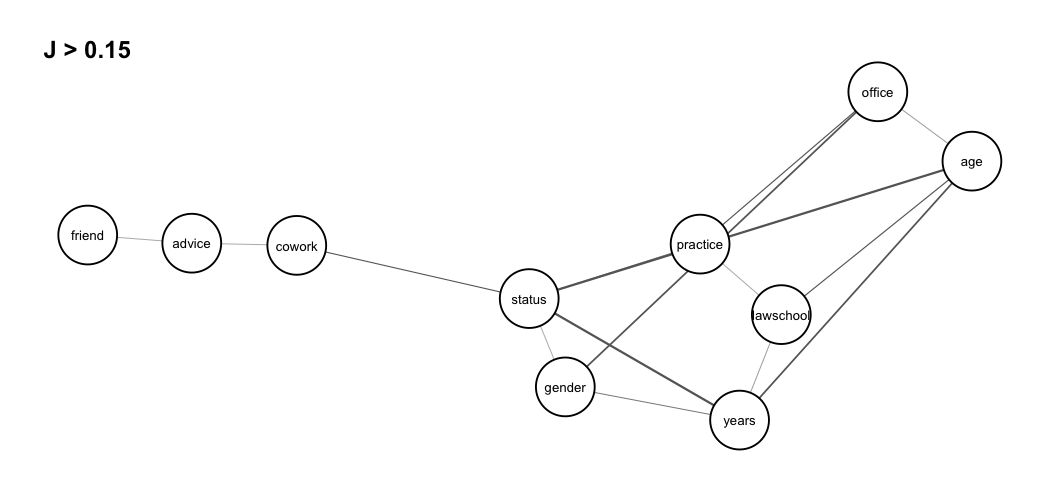
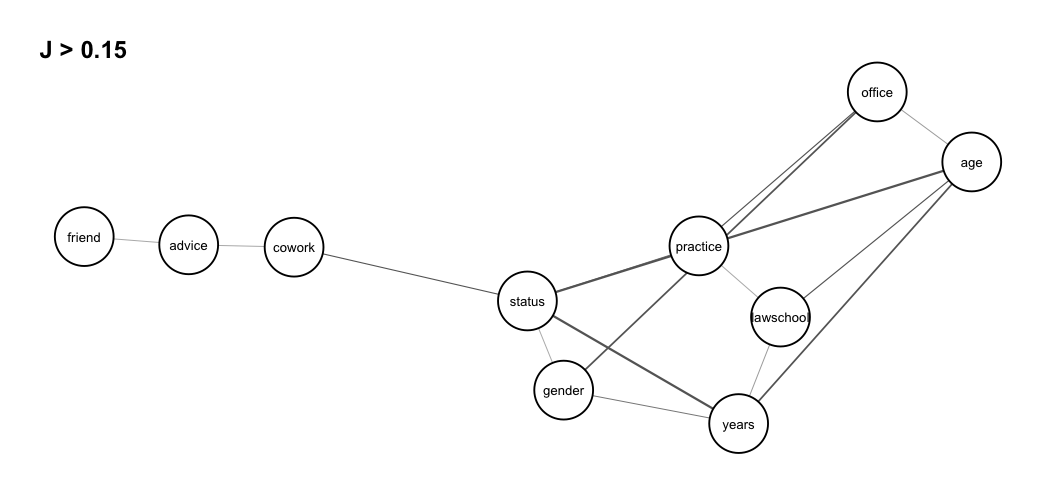
readme updated

diff --git a/README.md b/README.md
@@ -229,17 +229,17 @@ fourth column. We illustrated this on the dataframe `dyad.var`:
 ``` r
 H3 <- entropy_trivar(dyad.var)
 head(H3, 10) # view first 10 rows of dataframe
-#>        V1     V2        V3 H(V1,V2,V3)
-#> 1  status gender    office       4.938
-#> 2  status gender     years       4.609
-#> 3  status gender       age       5.129
-#> 4  status gender  practice       4.810
-#> 5  status gender lawschool       5.664
-#> 6  status gender    cowork       3.464
-#> 7  status gender    advice       4.048
-#> 8  status gender    friend       3.685
-#> 9  status office     years       5.321
-#> 10 status office       age       5.721
+#>         X      Y         Z H(X,Y,Z)
+#> 1  status gender    office    4.938
+#> 2  status gender     years    4.609
+#> 3  status gender       age    5.129
+#> 4  status gender  practice    4.810
+#> 5  status gender lawschool    5.664
+#> 6  status gender    cowork    3.464
+#> 7  status gender    advice    4.048
+#> 8  status gender    friend    3.685
+#> 9  status office     years    5.321
+#> 10 status office       age    5.721
 ```
 
 ## Joint Entropy and Association Graphs
@@ -358,12 +358,13 @@ The diagonal gives *EH(Z\|X)* , that is when only one variable as a
 predictor. Note that `NA`’s are in the row and column representing the
 variable being predicted.
 
-Assume we are interested in predicting variable `status` (that is
+Assume we are interested in predicting the variable `status` (that is,
 whether a lawyer in the data set is an associate or partner). This is
-done by running the following syntax
+done by computing the prediction power matrix:
 
 ``` r
-prediction_power('status', dyad.var)
+pred_status <- prediction_power("status", dyad.var)
+pred_status
 #>           status gender office years   age practice lawschool cowork advice
 #> status        NA     NA     NA    NA    NA       NA        NA     NA     NA
 #> gender        NA  1.375  1.180 0.670 0.855    1.304     1.225  1.306  1.263
@@ -388,13 +389,17 @@ prediction_power('status', dyad.var)
 #> friend     3.408
 ```
 
-For better readability, the powers of different predictors can be
-conveniently compared by using prediction plots that display a color
-matrix with rows for $X$ and columns for $Y$ with darker colors in the
-cells when we have higher prediction power for $Z$. This is shown for
-the prediction of `status`:
+For better readability, the predictive strengths of different variables
+can be compared using a heatmap representation. The plot displays a
+color-coded matrix with rows corresponding to $X$ and columns to $Y$,
+where darker cells indicate higher predictive power (i.e., lower
+prediction uncertainty for `status`:
 
-<img src="man/figures/predplot-status.png" align="center"/>
+``` r
+make_pred_plot(pred_status, "Prediction Power for Status")
+```
+
+<img src="man/figures/README-unnamed-chunk-3-1.png" width="100%" />
 
 Obviously, the darkest color is obtained when the variable to be
 predicted is included among the predictors, and the cells exhibit
@@ -414,22 +419,67 @@ Occurring cliques in association graphs represent connected components
 of dependent variables, and by comparing the graphs for different
 thresholds, specific structural models of multivariate dependence can be
 suggested and tested. The function `div_gof()` allows such hypothesis
-tests for pairwise independence of $X$ and $Y$: $X \bot Y$, and pairwise
-independence conditional a third variable $Z$: $X\bot Y|Z$.
+tests.
 
-To test `friend`$\bot$ `cowork`$|$`advice`, that is whether dyad
-variable `friend` is independent of `cowork` given `advice` we use the
-function as shown below:
+The function `div_gof()` provides a formal way to test whether
+simplified dependence structures suggested by the association graph are
+consistent with the observed data.
+
+### Example 1: Conditional Independence
+
+From the association graph above, we observed that the variables
+`friend`, `cowork`, and `advice` form a connected component. This
+suggests the model
+
+$$\text{friend} \perp \text{cowork} \mid \text{advice},$$
+
+meaning that any dependence between friendship and co-working may be
+explained by the advice relation.
+
+This can be tested as follows:
 
 ``` r
-div_gof(dat = dyad.var, var1 = "friend", var2 = "cowork", var_cond = "advice")
-#> the specified model of conditional independence cannot be rejected
-#>      D df(D)
-#> 1 0.94    12
+div_gof(
+  dat = dyad.var,
+  var1 = "friend",
+  var2 = "cowork",
+  var_cond = "advice"
+)
+#>                                        test     D   chi2 df critical_value
+#> 1 friend independent of cowork given advice 0.003 11.959 12         21.798
+#>        decision
+#> 1 cannot reject
 ```
 
-Not specifying argument `var_cond` would instead test
-`friend`$\bot$`cowork` without any conditioning.
+Since the model is not rejected, this supports the interpretation that
+`advice` explains the association between `friend` and `cowork`.
+
+### Example 2: Pairwise Independence
+
+We can also test whether two variables are independent without
+conditioning. For example,
+
+$$\text{cowork} \perp \text{gender},$$
+
+which was suggested by a joint entropy value close to zero:
+
+``` r
+div_gof(
+  dat = dyad.var,
+  var1 = "cowork",
+  var2 = "gender"
+)
+#>                           test     D   chi2 df critical_value decision
+#> 1 cowork independent of gender 0.005 16.538  3          7.899   reject
+```
+
+Since this model is rejected, it indicates that the two variables are
+statistically indeepndent.
+
+These tests provide a useful bridge between exploratory entropy analysis
+and formal statistical modeling. While association graphs suggest
+candidate structures, divergence-based tests allow us to assess whether
+such simplified models adequately describe the observed data.
 
 ## References
 
